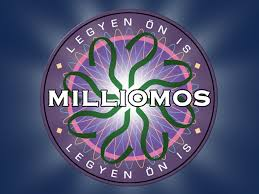
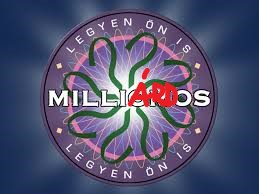
Jobb oldal, újra

Changed region(s): [[0.4942, 0.3402, 0.7104, 0.5567]]

diff --git a/public_html/js/script.js b/public_html/js/script.js
@@ -3,14 +3,27 @@ function kiir(szoveg) {
     kerdes[0].innerHTML = szoveg;
 }
 
-var kerdesek = [["Hogyan keződik? \"... a gőzmozdony\"", 2, "Persi", "Thomas", "Bob", "Chuggington"], ["Mit szeret Micimackó a leginkább?", 1, "Méz", "Eper", "Csoki", "Tejszínhab"], ["Mennyi a következő egyenlet megoldása: 2*(3+4)/7", 4, "3.3", "1", "7", "2"], ["Hogy hívtak majdnem mindenkit a Rrrrrrrrr c. filmben?", 2, "Béla", "Pali", "Szőke", "Jani"], ["A sárga és a kék szín keverésével milyen színt kapunk?", 1, "Zöld", "Piros", "Kék", "Lila"], ["Milyen kategóriájú jogosítvánnyal lehet személygépkocsit vezetni?", 2, "A", "B", "C", "D"], ["Melyik képzeletbeli város Batman otthona?", 4, "New York", "Budapest", "Joker", "Gotham"], ["Hány csoda van a világon?", 3, "1", "3", "7", "12"], ["Milyen magas a Mt. Everest?", 1, "8848 m", "9659 m", "13027 m", "15984 m"], ["Milyen színű a kör a japán nemzeti zászlóban?", 1, "Piros", "Kék", "Sárga", "Zöld"]];
+var kerdesek = [["Hogyan keződik? \"... a gőzmozdony\"", 2, "Persi", "Thomas", "Bob", "Chuggington"], ["Mit szeret Micimackó a leginkább?", 1, "Méz", "Eper", "Csoki", "Tejszínhab"], ["Mennyi a következő egyenlet megoldása: 2*(3+4)/7", 4, "3.3", "1", "7", "2"], ["Hogy hívtak majdnem mindenkit a RRRrrrr!!! c. filmben?", 2, "Béla", "Pali", "Szőke", "Jani"], ["A sárga és a kék szín keverésével milyen színt kapunk?", 1, "Zöld", "Piros", "Kék", "Lila"], ["Milyen kategóriájú jogosítvánnyal lehet személygépkocsit vezetni?", 2, "A", "B", "C", "D"], ["Melyik képzeletbeli város Batman otthona?", 4, "New York", "Budapest", "Joker", "Gotham"], ["Hány csoda van a világon?", 3, "1", "3", "7", "12"], ["Milyen magas a Mt. Everest?", 1, "8848 m", "9659 m", "13027 m", "15984 m"], ["Milyen színű a kör a japán nemzeti zászlóban?", 1, "Piros", "Kék", "Sárga", "Zöld"]];
 var jovalasz;
 var vanvalasz = false;
 var jogomb;
 var rosszvalasz;
 var nyomott;
+var kerdesSzama = 0;
+var helyzetek;
 
 function init() {
+
+
+    var helyzetBlokk = document.getElementById("helyzetBlokk");
+    for (var i = 0; i < 10; i++) {
+        helyzetBlokk.innerHTML += "<div class='test'>" + (i + 1) + ". kérdés</div>";
+    }
+    betoltes();
+
+}
+
+function betoltes() {
     var tomb = kerdesek[(Math.floor(Math.random() * (9)))];
     var kerdes = tomb[0];
     kiir(kerdes);
@@ -19,7 +32,13 @@ function init() {
     var lehetosegek = document.getElementsByClassName("valasz");
     for (var i = 0; i < 4; i++) {
         lehetosegek[i].innerHTML = tomb[i + 2];
+        lehetosegek[i].style.backgroundColor = "#C0C0C0";
     }
+
+    helyzetek = document.getElementsByClassName("test");
+
+    helyzetek[kerdesSzama].style.backgroundColor = "yellow";
+    helyzetek[kerdesSzama].style.color = "black";
 }
 
 function ellenorzes(gomb) {
@@ -61,9 +80,25 @@ function ellenorzes(gomb) {
 function johet() {
     var nyomottgomb = document.getElementById(jogomb);
     nyomottgomb.style.backgroundColor = "green";
+    if (nyomott === jogomb) {
+        helyzetek[kerdesSzama++].style.backgroundColor = "green";
+        setTimeout(betoltes, 2000);
+    }
+
 }
 
-function piros(){
+function piros() {
     var nyomottgomb = document.getElementById(nyomott);
     nyomottgomb.style.backgroundColor = "red";
+    helyzetek[kerdesSzama++].style.backgroundColor = "red";
+    setTimeout(rossz, 2000);
+}
+
+function rossz() {
+    var valaszok = document.getElementById("valaszok");
+    valaszok.innerHTML = "<div id='ujra' onclick='ujra();'>Újra</div>";
+}
+
+function ujra() {
+    window.location.reload(false);
 }

diff --git a/public_html/index.html b/public_html/index.html
@@ -1,7 +1,7 @@
 <!DOCTYPE html>
 <html>
     <head>
-        <title>Legyen Ön is Milliomos!</title>
+        <title>Legyen Ön is Milliárdos!</title>
         <meta charset="UTF-8">
         <meta name="viewport" content="width=device-width, initial-scale=1.0">
         <link rel="stylesheet" type="text/css" href="css/minta.css">
@@ -13,7 +13,7 @@
             <div id="nyeremeny">
                 <div id="nyeremenyBlokk"></div>
             </div>
-            <div class="valaszok">
+            <div id="valaszok">
                 <div id="kerdes"><p>Hello</p></div>
                 <div class="valasz" id="elso" onclick="ellenorzes('elso');"><p>Alma</p></div>
                 <div class="valasz" id="masodik" onclick="ellenorzes('masodik');"><p>Banán</p></div>
@@ -21,10 +21,10 @@
                 <div class="valasz" id="negyedik" onclick="ellenorzes('negyedik');"><p>Dinnye</p></div>
             </div>
             <div id="helyzet">
-                <div id="helyzetBlokk"></div>
+                <div id="helyzetBlokk">
+                </div>
+                <div style="clear: both; display: block;"></div>
             </div>
-            <div style="clear: both; display: block;"></div>
-        </div>
 
     </body>
 </html>

diff --git a/public_html/css/minta.css b/public_html/css/minta.css
@@ -19,6 +19,15 @@ body{
     border-radius: 0px 0px 10px 0px;
 }
 
+.test{
+    border: 1px solid red;
+    height: 30px;
+    margin: 0 auto;
+    margin-top: 15px;
+    width: 80%;
+    text-align: center;
+    color: white;
+}
 #nyeremeny{
     height: 500px;
     float:left;
@@ -38,7 +47,7 @@ body{
     width: 180px;
     background-color: rgba(5,5,5,0.8);
     border-radius: 30px;
-    height: 400px;
+    height: 500px;
 }
 
 #nyeremenyBlokk{
@@ -49,7 +58,7 @@ body{
     height: 400px;
 }
 
-.valaszok{
+#valaszok{
     height: 200px;
     width: 560px;
     background-color: rgba(5,5,5,0.8);
@@ -59,7 +68,7 @@ body{
     text-align: center;
 }
 
-.valaszok p{
+#valaszok p{
     padding-top: 6px;
 }
 
@@ -72,6 +81,15 @@ body{
     color: #FFFFFF;
     text-align: center;
     font-size: 18px;
+}
+
+#ujra{
+    height: 100px;
+    width: 100px;
+    background-color: #C0C0C0;
+    border-radius: 10px;
+    margin: 0 auto;
+    margin-top: 70px;
 }
 
 .valasz{
@@ -110,7 +128,7 @@ body{
     }
 }
 
-@media only screen and (max-width: 600px){
+@media only screen and (max-width: 630px){
     .valasz{
         width: 100%;
     }
